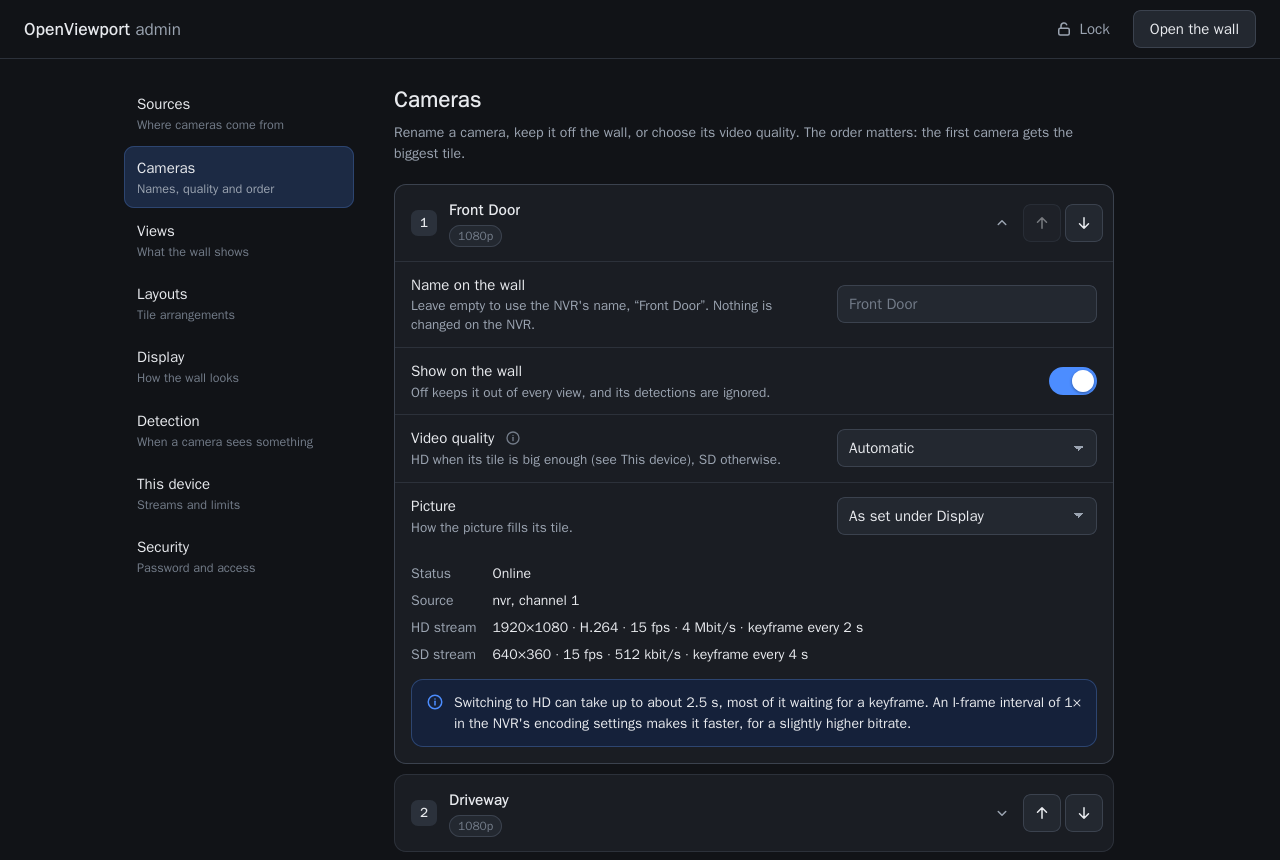
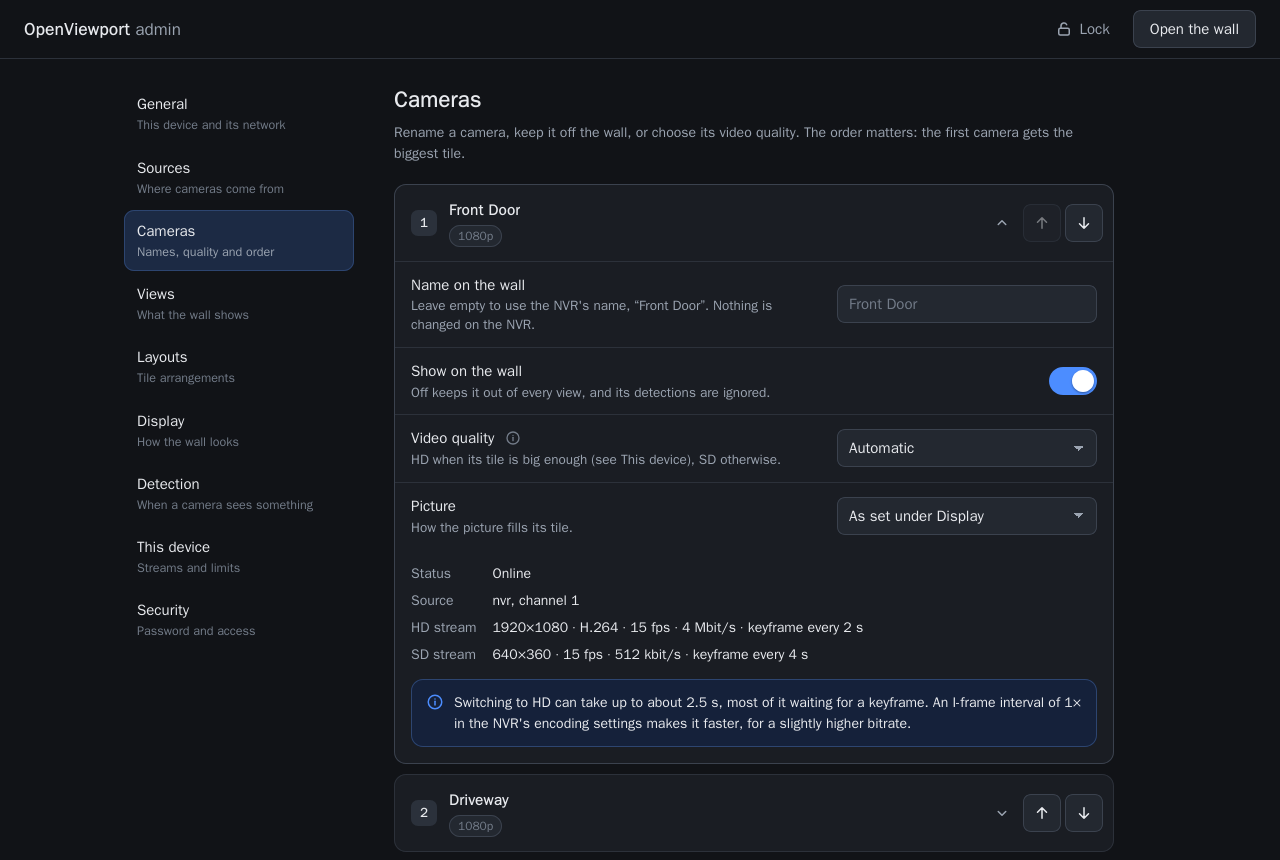
Bring the documentation up to the device work, and say what is coming
The General section, the host helper and the setup screen existed in the code and nowhere in
the documentation. Now:

* the README shows the General section and the setup screen, and carries two lists people ask
  for before trying anything — what it does today, and what is coming next;
* the API reference covers /api/device and its actions, and the `setup` block the wall
  snapshot carries while a device has no network but its own;
* security explains the one part that runs as root: what it will and will not do, and what
  someone who learns the admin password can therefore reach;
* the Pi guide walks through a first run with no network, over the device's own wifi;
* troubleshooting answers "the screen says Set up this screen";
* building says how to develop against the stand-in device, and configuration documents the
  two settings that turn it on.

Screenshots are taken again from the mock NVR, so they show this version rather than the one
before the device work.

VIEWPORT_PUBLIC_PORT is passed through compose as well: the setup screen puts an address on
the television, and it was always saying 8080 however the wall was actually published.

diff --git a/agent/tests/test_deployment.py b/agent/tests/test_deployment.py
@@ -60,6 +60,8 @@ def test_the_agent_listens_where_the_mapping_and_the_healthcheck_look():
     environment = SERVICES["agent"]["environment"]
     assert str(environment["VIEWPORT_PORT"]) == "8080"
     assert environment["VIEWPORT_HOST"] == "0.0.0.0"
+    # The port people actually reach, which is what the setup screen shows on the TV.
+    assert environment["VIEWPORT_PUBLIC_PORT"] == "${VIEWPORT_PORT:-8080}"
     assert SERVICES["agent"]["ports"][0].endswith(":8080")
 
 

diff --git a/README.md b/README.md
@@ -77,6 +77,13 @@ and **Security**.
 
 ![The Detection section](docs/images/admin-detection.png)
 
+The **General** section is what the device says about itself — version, uptime, temperature,
+disk, which network it is on and at what address — and what can be done to it: join a wifi
+network, prefer ethernet, restart, shut down, or start again from scratch. Reading it needs no
+password; changing anything does.
+
+![The General section](docs/images/admin-general.png)
+
 The first time you open it, a short guide walks you through protecting the settings, connecting
 your cameras, naming them and choosing what the wall shows.
 
@@ -86,6 +93,17 @@ your cameras, naming them and choosing what the wall shows.
 
 Settings are shown but locked until you unlock them with the admin password, so the screen in
 the hallway cannot be reconfigured by anyone who walks past it.
+
+## A device with no network sets itself up
+
+Plugged in somewhere new, with no cable and no wifi it knows, there is no address for anyone to
+open — so the television becomes the way in. The device puts up a wifi network of its own and
+shows how to join it, with a code to scan for the network and another for the settings page.
+
+![The setup screen: join this network, then open the settings](docs/images/setup-screen.png)
+
+Tell it about your wifi and its own network disappears, the screen goes back to the cameras,
+and the settings move to `http://<the device>.local:8080/admin`.
 
 ## On a Raspberry Pi
 
@@ -125,6 +143,35 @@ hands out camera passwords; credentials never reach logs, API responses, the set
 the screen; the pages run under a strict content security policy and refuse cross-site requests
 and DNS rebinding; every container is read-only and without capabilities; the wall is on
 loopback until you publish it deliberately. [Security](docs/security.md) has the details.
+
+## What it does today
+
+- **A camera wall that protects the recorder** — 13 built-in layouts and your own, several
+  views, instant full screen, and a stream budget that keeps one full-resolution stream at a
+  time so the vendor's phone app still works.
+- **Reolink, ONVIF and plain RTSP**, added and removed while it runs.
+- **Every camera set up on its own** — name, hidden or not, always HD, always SD or automatic,
+  how the picture fills its tile, and what its streams actually are.
+- **A camera comes forward when something happens** — person, vehicle, animal or motion, full
+  screen or promoted or simply marked, and only for things that *arrive*.
+- **An admin page that works on a phone**, locked until you unlock it, with a setup guide on
+  first use.
+- **Device control** — network, restart, shut down and reset, from the same page.
+- **Onboarding with no network at all**, over the device's own wifi and a code on the TV.
+- **A Raspberry Pi appliance** — one installer, services at boot, a browser on the TV.
+- **Security as a requirement** — a token to watch, a password to change, credentials kept out
+  of logs and responses, hardened containers, and root confined to one small service.
+- **Tested** — 607 unit tests and 37 browser tests that play real video, run on every change.
+
+## What is coming
+
+- **Updating from the settings page**, with an automatic rollback if the new version does not
+  come up.
+- **A display schedule** — the TV off at night and on in the morning, over HDMI-CEC.
+- **Raspberry Pi measurements**, and a native renderer if the browser proves to be the limit.
+- **A ready-made Pi image**, so the first boot is the setup screen.
+- **Push events from Reolink** instead of polling for detections.
+- **More vendors**, driven by what people report their hardware doing.
 
 ## Documentation
 

diff --git a/docs/api.md b/docs/api.md
@@ -82,9 +82,48 @@ Each returns the updated `/api/config`. Invalid values are `422`; removing a lay
 use is `409`. In the `cameras` list, `name` is the name as shown and `reported_name` the NVR's;
 `camera_settings` also holds settings for cameras not discovered right now.
 
+## The device it runs on
+
+`GET /api/device` needs the token (or an admin session) and reads what the device knows about
+itself: its name, version, camera count, and — where a host helper is installed — how it is
+connected, at what address, its uptime, temperature and free disk.
+
+```json
+{
+  "name": "Hallway", "version": "0.1.0", "cameras": 3,
+  "host": {"kind": "helper", "link": "wifi", "ssid": "Kitchen",
+           "addresses": ["192.168.1.50"], "access_point": false,
+           "uptime_seconds": 486120, "temperature_c": 52.1, "throttled": false}
+}
+```
+
+`host.kind` is `helper` on a device with one, `fake` on a development machine pretending to be
+one, and `none` where there is neither — in which case the rest of the block is absent and the
+operations below refuse.
+
+Everything that *changes* the device needs the admin password, not just the token:
+
+| | |
+|---|---|
+| `GET /api/device/networks` | wifi networks in range, strongest first |
+| `POST /api/device/network/join` | `{"ssid": "…", "password": "…"}` |
+| `POST /api/device/network/forget` | `{"ssid": "…"}` |
+| `POST /api/device/network/prefer` | `{"link": "ethernet"}` or `"wifi"` |
+| `POST /api/device/access-point` | `{"on": true}` — show the device's own network |
+| `POST /api/device/reboot`, `/shutdown` | what they say |
+| `POST /api/device/reset` | `{"scope": "configuration"}` or `{"scope": "device", "forget_network": true}` |
+
+None of this happens in the agent's container. It is passed to a small service on the host
+over a Unix socket, which accepts those operations and nothing else
+([Raspberry Pi](raspberry-pi.md)).
+
 ## WebSockets
 
 ### `/api/wall/ws` — the renderer's channel
+
+The snapshot carries a `setup` block while the device has no network but its own: the network
+name, its password, the address to open, and a QR matrix for each (rows of 0 and 1, which the
+renderer draws). It is `null` the rest of the time, which is almost always.
 
 Receives a snapshot whenever anything changes:
 

diff --git a/docs/security.md b/docs/security.md
@@ -145,6 +145,32 @@ docker compose exec go2rtc python3 -c "import urllib.request; print(urllib.reque
 `agent/tests/test_deployment.py` checks all of this in the files that set it, so an edit to the
 compose file cannot quietly undo it.
 
+## The one part that runs as root
+
+Joining a wifi network, restarting and powering down need root on the device. The agent has
+none of it: it runs read-only, without Linux capabilities, as a system user. So those
+operations live in a separate service, `openviewport-hostd`, which systemd starts and which
+listens on a Unix socket mounted into the agent's container read-only.
+
+What keeps that safe to run as root is what it will not do:
+
+- it answers eight operations — status, networks, join, forget, access-point, prefer, reboot,
+  shutdown — and refuses anything else;
+- it checks every argument again on arrival, whatever the caller claimed to have checked;
+- nothing reaches a shell: every command is an argument list, so a network name full of shell
+  characters stays a network name;
+- there is **no operation that runs a command, a script or a path of the caller's choosing**.
+
+The socket is `root:10001`, mode 0660, so only the agent may speak to it, and systemd takes
+away everything the service does not need (`ProtectSystem=strict`, `NoNewPrivileges`, only
+`AF_UNIX` and `AF_NETLINK`, `@system-service` syscalls).
+
+The consequence to be clear about: **someone who learns the admin password can move the device
+to another network, restart it, or reset it** — which is what someone standing next to it could
+do anyway. They cannot make it run anything.
+
+Where no helper is installed, the device section shows what it can read and refuses the rest.
+
 ## HTTPS with a reverse proxy
 
 Caddy obtains and renews a certificate by itself. For a device reached as `cams.example.com`:

diff --git a/docs/raspberry-pi.md b/docs/raspberry-pi.md
@@ -62,6 +62,28 @@ to and no desktop behind it.
 
 ## 4. First run
 
+### With no network yet
+
+A device with no cable and no wifi cannot be reached at all, so it stops being a camera wall
+and becomes its own way in: it puts up a wifi network of its own, and the television shows the
+network name, its password, and a QR code for each.
+
+1. Scan the first code with a phone — or join the network by hand with the name and password
+   on the screen.
+2. Scan the second code, which opens the settings on that device.
+3. Choose a password, then tell it about your wifi under **General → Wi-Fi**.
+
+When it joins your network, its own goes away and the screen returns to the cameras. Rejoin
+your usual wifi on the phone, and the settings are then at `http://<the pi>.local:8080/admin`.
+
+The access point's password is made once, by the device, and kept; it is not printed in the
+installer's output and not stored in the repository. Anyone who can see the television can read
+it, which is the point: being in the room is the permission.
+
+### With a network already
+
+
+
 Open the link the installer printed, from your phone or laptop:
 
 ```

diff --git a/docs/troubleshooting.md b/docs/troubleshooting.md
@@ -85,6 +85,20 @@ Detection focus. Either raise `min_focus_seconds`, narrow `triggers` (motion fir
 than person), switch `action` to `highlight`, or turn detection off. Any interaction pauses
 it for `manual_override_seconds`.
 
+## The screen says "Set up this screen"
+
+The device has no network — no cable, and no wifi it knows — so it has put up its own and is
+showing how to join it. Scan the first code with a phone, or join the network by hand with the
+name and password on screen, then scan the second code (or type the address) to open the
+settings and tell it about your wifi.
+
+If it should be on a cable: plug it in, and the screen goes back to the cameras within about
+fifteen seconds. If it was on wifi and this appeared, the network it knew is gone or its
+password has changed.
+
+Nothing to scan? The codes are drawn from the device itself. If only the words appear, the
+address was too long to encode — join with the name and password and type the address.
+
 ## A tile stays marked, and it is a parked car (or the bins)
 
 Reolink's detection answers say what a camera **can see**, not what just changed: a car on the

diff --git a/docs/configuration.md b/docs/configuration.md
@@ -41,6 +41,8 @@ Security.
 | `COMPOSE_PROFILES` | unset; `mock` in `.env.dev.example` | `mock` also starts the mock NVR |
 | `COMPOSE_FILE` | unset; dev files in `.env.dev.example` | `docker-compose.yml:docker-compose.dev.yml` adds live-edited web pages |
 | `VIEWPORT_BIND` | `127.0.0.1` | Where the wall is published. `0.0.0.0` for a screen elsewhere on the LAN, and then set the token and a password |
+| `VIEWPORT_HOST_FAKE` | unset | `1` pretends this machine is the appliance: the General section's network and power controls work against a device that exists only in memory, and say so. For development |
+| `VIEWPORT_HOST_FAKE_LINK` | `ethernet` | With the above, `none` starts that pretend device with no network at all, which is what brings up the setup screen |
 | `VIEWPORT_PORT` | `8080` | |
 | `VIEWPORT_API_TOKEN` | *(blank)* | Lets a screen watch the wall. Blank leaves it open |
 | `VIEWPORT_ADMIN_USERNAME` | `admin` | |

diff --git a/docs/building.md b/docs/building.md
@@ -96,6 +96,13 @@ The pages run under a strict content security policy: no inline scripts or style
 and connections only to their own origin. Set text with `textContent`, never `innerHTML` with
 data in it.
 
+Development machines are not appliances, so the General section's network and power controls
+would have nothing to drive. `.env.dev.example` sets `VIEWPORT_HOST_FAKE=1`, which stands in a
+device that exists only in memory: joining a network, a refused password, restarting and
+resetting all behave, and the page says plainly that they are simulated. Adding
+`VIEWPORT_HOST_FAKE_LINK=none` starts it with no network at all, which is what brings up the
+setup screen on the wall.
+
 The mock NVR can be told to behave like awkward hardware:
 
 ```bash
